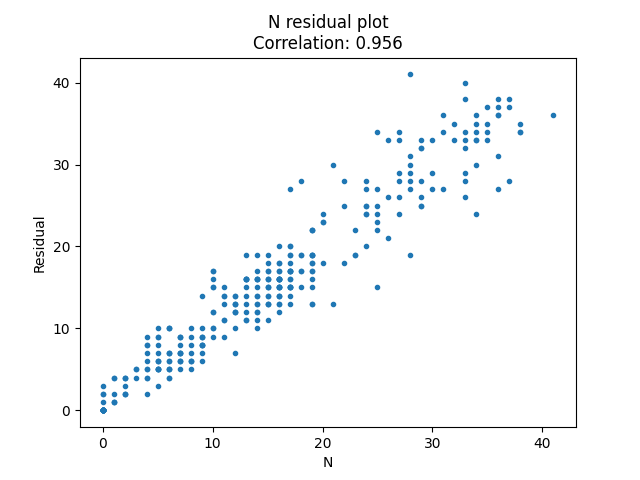
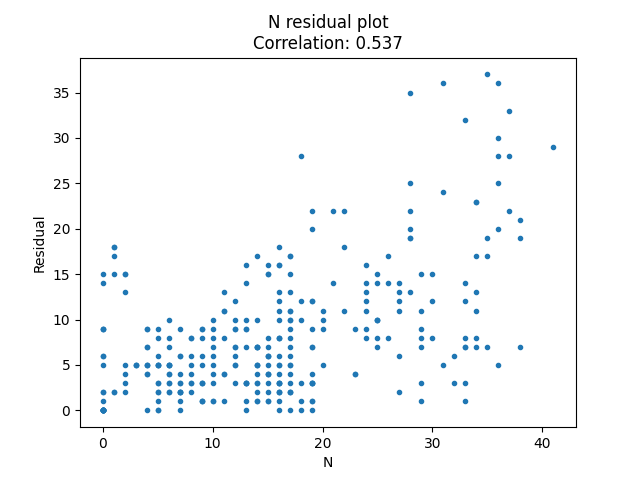
with ppm now

diff --git a/Functions.py b/Functions.py
@@ -12,6 +12,7 @@ from sklearn.linear_model import LinearRegression
 from constants import V, bounds
 import statsmodels.api as sm
 import pylab as py
+from constants import ppm_factor
 
 
 def hold_out(dates, m=15, dt=15 * 60, plot=False, use_adjacent=True, filename_parameters='testing', optimise_N=False,
@@ -432,7 +433,7 @@ def kalman_estimates(C, min_error=50, error_proportion=0.03):
     return estimates, E_est_list
 
 
-def residual_analysis(dd_list, N_list, E_list, E_list_reg, filepath_plots='documents/plots/'):
+def residual_analysis(dd_list, N_list, E_list, E_list_reg, filepath_plots='documents/plots/', plot=True):
     all_co2, all_N, errors_co2, errors_N = [], [], [], []
     for device, device_N, device_errors in zip(dd_list, N_list, E_list):
         for period, period_N, period_errors in zip(device, device_N, device_errors):
@@ -453,49 +454,50 @@ def residual_analysis(dd_list, N_list, E_list, E_list_reg, filepath_plots='docum
                 else:
                     skip = False
 
-    plt.scatter(all_co2, errors_co2, marker='.')
-    cor_co2 = round(np.corrcoef(all_co2, errors_co2)[1, 0], 3)
-    plt.title(f'CO2 residual plot\nCorrelation: {cor_co2}')
-    plt.ylabel('Residual')
-    plt.xlabel('CO2')
-    plt.savefig(filepath_plots + 'co2_residual', bbox_inches='tight')
-    plt.show()
+    if plot:
+        plt.scatter(all_co2, errors_co2, marker='.')
+        cor_co2 = round(np.corrcoef(all_co2, errors_co2)[1, 0], 3)
+        plt.title(f'CO2 residual plot\nCorrelation: {cor_co2}')
+        plt.ylabel('Residual')
+        plt.xlabel('CO2')
+        plt.savefig(filepath_plots + 'co2_residual', bbox_inches='tight')
+        plt.show()
 
-    plt.scatter(all_N, errors_N, marker='.')
-    cor_N = round(np.corrcoef(all_N, errors_N)[1, 0], 3)
-    plt.title(f'N residual plot\nCorrelation: {cor_N}')
-    plt.ylabel('Residual')
-    plt.xlabel('N')
-    plt.savefig(filepath_plots + 'N_residual')
-    plt.show()
+        plt.scatter(all_N, errors_N, marker='.')
+        cor_N = round(np.corrcoef(all_N, errors_N)[1, 0], 3)
+        plt.title(f'N residual plot\nCorrelation: {cor_N}')
+        plt.ylabel('Residual')
+        plt.xlabel('N')
+        plt.savefig(filepath_plots + 'N_residual')
+        plt.show()
 
-    plt.scatter(all_co2, errors_N, marker='.')
-    cor_N = round(np.corrcoef(all_co2, errors_N)[1, 0], 3)
-    plt.title(f'CO2/N residual plot\nCorrelation: {cor_N}')
-    plt.ylabel('Residual')
-    plt.xlabel('N')
-    plt.savefig(filepath_plots + 'co2_N_residual')
-    plt.show()
+        plt.scatter(all_co2, errors_N, marker='.')
+        cor_N = round(np.corrcoef(all_co2, errors_N)[1, 0], 3)
+        plt.title(f'CO2/N residual plot\nCorrelation: {cor_N}')
+        plt.ylabel('Residual')
+        plt.xlabel('N')
+        plt.savefig(filepath_plots + 'co2_N_residual')
+        plt.show()
 
-    stats.probplot(all_N, dist="norm", plot=plt)
-    plt.title('Q-Q plot N Mass Balance')
-    plt.savefig(filepath_plots + 'qq_n_MB')
-    plt.show()
+        stats.probplot(all_N, dist="norm", plot=plt)
+        plt.title('Q-Q plot N Mass Balance')
+        plt.savefig(filepath_plots + 'qq_n_MB')
+        plt.show()
 
-    stats.probplot(errors_N_reg, dist="norm", plot=plt)
-    plt.title('Q-Q plot N Linear Regression')
-    plt.savefig(filepath_plots + 'qq_n_lr')
-    plt.show()
+        stats.probplot(errors_N_reg, dist="norm", plot=plt)
+        plt.title('Q-Q plot N Linear Regression')
+        plt.savefig(filepath_plots + 'qq_n_lr')
+        plt.show()
 
-    stats.probplot(all_co2, dist="norm", plot=plt)
-    plt.title('Q-Q plot CO2 Mass Balance')
-    plt.savefig(filepath_plots + 'qq_co2_MB')
-    plt.show()
+        stats.probplot(all_co2, dist="norm", plot=plt)
+        plt.title('Q-Q plot CO2 Mass Balance')
+        plt.savefig(filepath_plots + 'qq_co2_MB')
+        plt.show()
 
-    stats.probplot(errors_co2_reg, dist="norm", plot=plt)
-    plt.title('Q-Q plot CO2 Linear Regression')
-    plt.savefig(filepath_plots + 'qq_co2_lr')
-    plt.show()
+        stats.probplot(errors_co2_reg, dist="norm", plot=plt)
+        plt.title('Q-Q plot CO2 Linear Regression')
+        plt.savefig(filepath_plots + 'qq_co2_lr')
+        plt.show()
 
     print('For N:')
     print('Summary for mass balance errors:')
@@ -690,9 +692,9 @@ def C_estimate(x, C, C_adj, N, V, dt=15 * 60, m=15, d=2):
     Q_adj, Q_out, C_out, m = x
     Q = Q_adj + Q_out
 
-    C = np.array(C) / 1_000_000     # ppm
     N = np.array(N)
-    C_adj = np.array(C_adj)[1:]
+    C = np.array(C) / ppm_factor     # ppm
+    C_adj = np.array(C_adj)[1:] / ppm_factor
 
     Ci, N = C[:-1], N[1:]  # Remove first N, as there is no previous CO2
     C_est = (1 - Q * dt) * Ci + \
@@ -701,7 +703,7 @@ def C_estimate(x, C, C_adj, N, V, dt=15 * 60, m=15, d=2):
             N * dt * m / V
     # print('new')
     # print((1 - Q * dt) * Ci, Q_adj * dt * C_adj, Q_out * dt * C_out, N * dt * m / V)
-    C_est = np.array(C_est, dtype=float)
+    C_est = np.array(C_est, dtype=float) * ppm_factor
     return np.round(C_est, decimals=d)
 
 
@@ -724,8 +726,8 @@ def N_estimate(x, C, C_adj, V, dt=15 * 60, m=15, d=0, max_n=50):
     Q_adj, Q_out, C_out, m = x
     Q = Q_adj + Q_out
 
-    C_adj = np.array(C_adj)[1:] / 1_000_000
-    C = np.array(C) / 1_000_000     # ppm
+    C_adj = np.array(C_adj)[1:] / ppm_factor
+    C = np.array(C) / ppm_factor     # ppm
     Ci = C[:-1]
     C = C[1:]
     N = np.array(V * (C - (1 - Q * dt) * Ci -

diff --git a/constants.py b/constants.py
@@ -11,8 +11,9 @@ n_map = {0: [], 1: [2, 10], 2: [1, 3], 3: [2, 4], 4: [2, 5], 5: [4, 6], 6: [5, 7
          17: [16, 18], 18: [17, 19], 19: [18, 20], 20: [11, 19], 21: [22, 27], 22: [21, 23], 23: [22, 24],
          24: [23, 25], 25: [24, 26], 26: [25, 27], 27: [21, 26]
          }
+ppm_factor = 1_000_000
 #         Q_adj        Q_out    C_out        m in m^3/s
-bounds = ((0, 1), (0, 1), (300, 500), (0, 0.0001))
+bounds = ((0, 1), (0, 1), (300/ppm_factor, 500/ppm_factor), (1.0e-50, 0.0001))
 # V in m^3:
 V = np.array([0, 0, 0, 0, 0, 0, 0, 0, 0, 0, 0, 0, 0, 0, 0, 0, 0, 0, 0, 0, 0,
               11.5 * 14.6, 10.2 * 11.5, 8.8 * 14.2, 8.8 * 14.8, 9.2 * 11.3, 15.5 * 11.6, 4.8 * 28]) * 3 #* 1000

diff --git a/Optimise.py b/Optimise.py
@@ -12,8 +12,8 @@ dates = ['2022_24_11', '2022_30_11', '2022_07_12', '2022_09_12', '2022_14_12', '
 error_file = 'parameters/e.txt'
 dd_list, N_list, E_list = hold_out(dates[:2], plot=True, filename_parameters='testing', optimise_N=0,
                                    summary_errors=error_file)
-E_list_reg = simple_models_hold_out(dates[:2], dt=15 * 60, method='l', plot=True, plot_scatter=0)
+# E_list_reg = simple_models_hold_out(dates[:2], dt=15 * 60, method='l', plot=True, plot_scatter=0)
 
-residual_analysis(dd_list, N_list, E_list, E_list_reg)
+# residual_analysis(dd_list, N_list, E_list, E_list_reg, plot=False)
 
 
